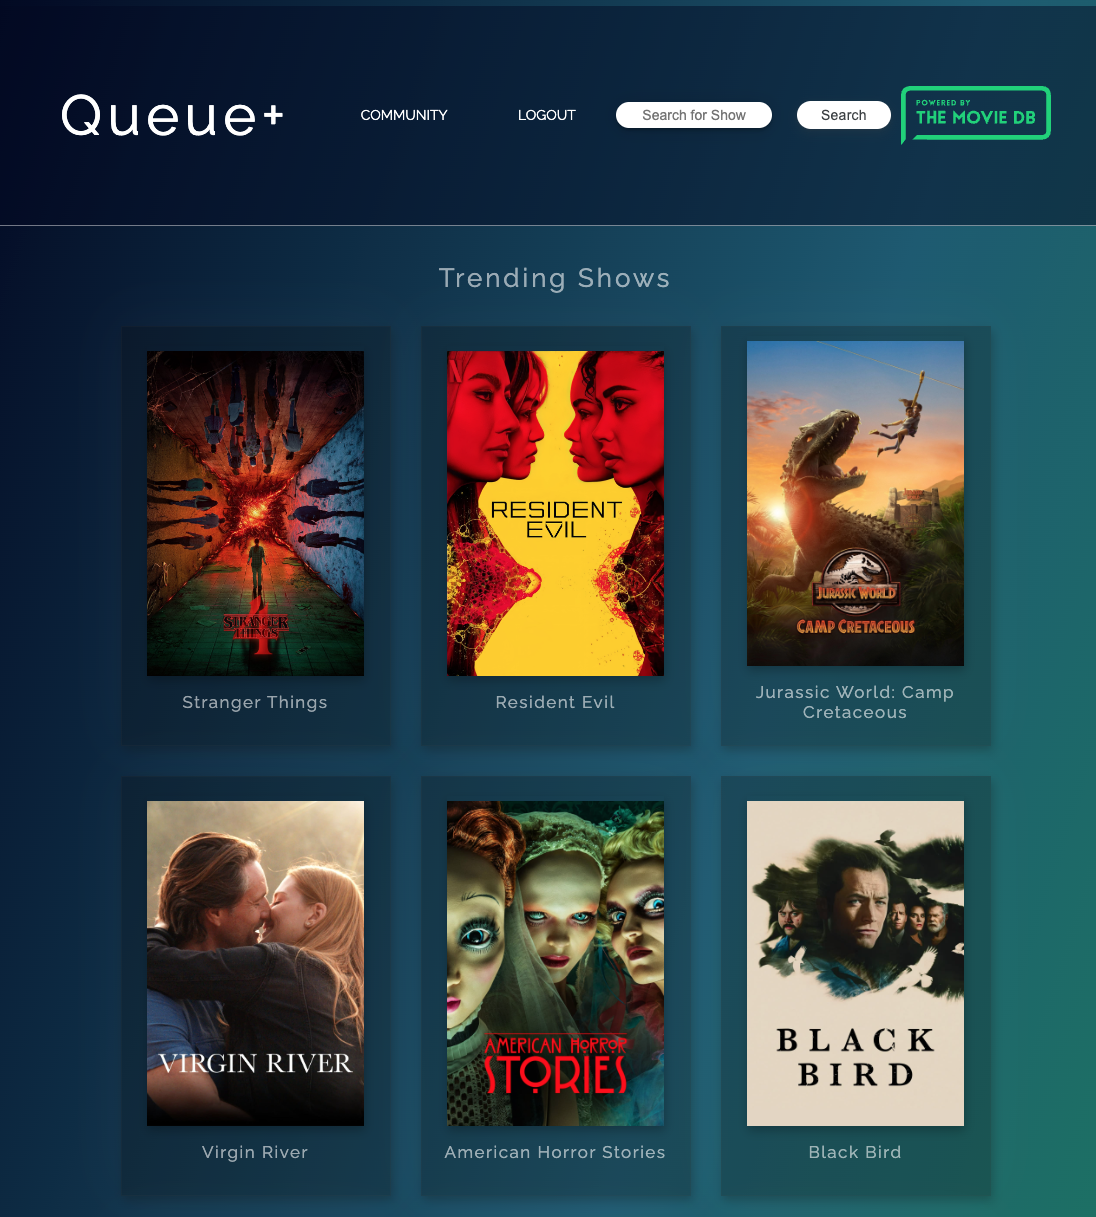
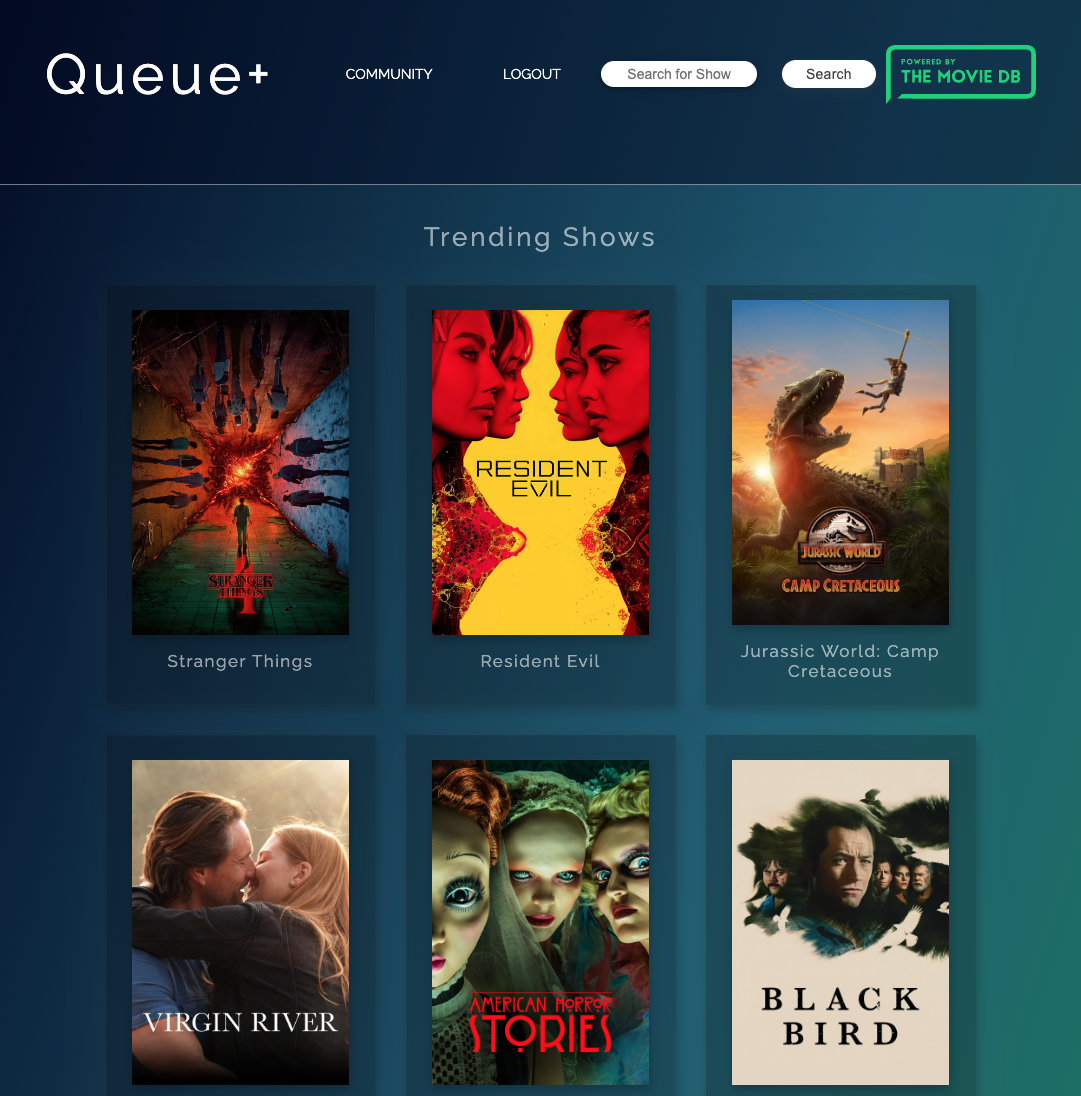
fix queue pic size

diff --git a/js/my-projects.js b/js/my-projects.js
@@ -12,7 +12,7 @@ let projectData = [
     launch: 'https://beryl-queue.herokuapp.com/',
     pic: 'assets/project-pics/queue-ss.png',
     github: 'https://github.com/berylrb/favorite-shows',
-    description: 'An app that helps you track your favorite shows and find your next favorite bingeable show.'
+    description: 'An app that helps you track your favorite shows and see what others are watching.'
   },
   {
     title: 'Tic-Tac-Grow',

diff --git a/css/style.css b/css/style.css
@@ -344,7 +344,7 @@ WORK  */
 .card-text {
   text-align: center;
   font-family: 'Montserrat', sans-serif;
-  font-size: 15px;
+  font-size: 1em;
 }
 
 .btn-primary {
